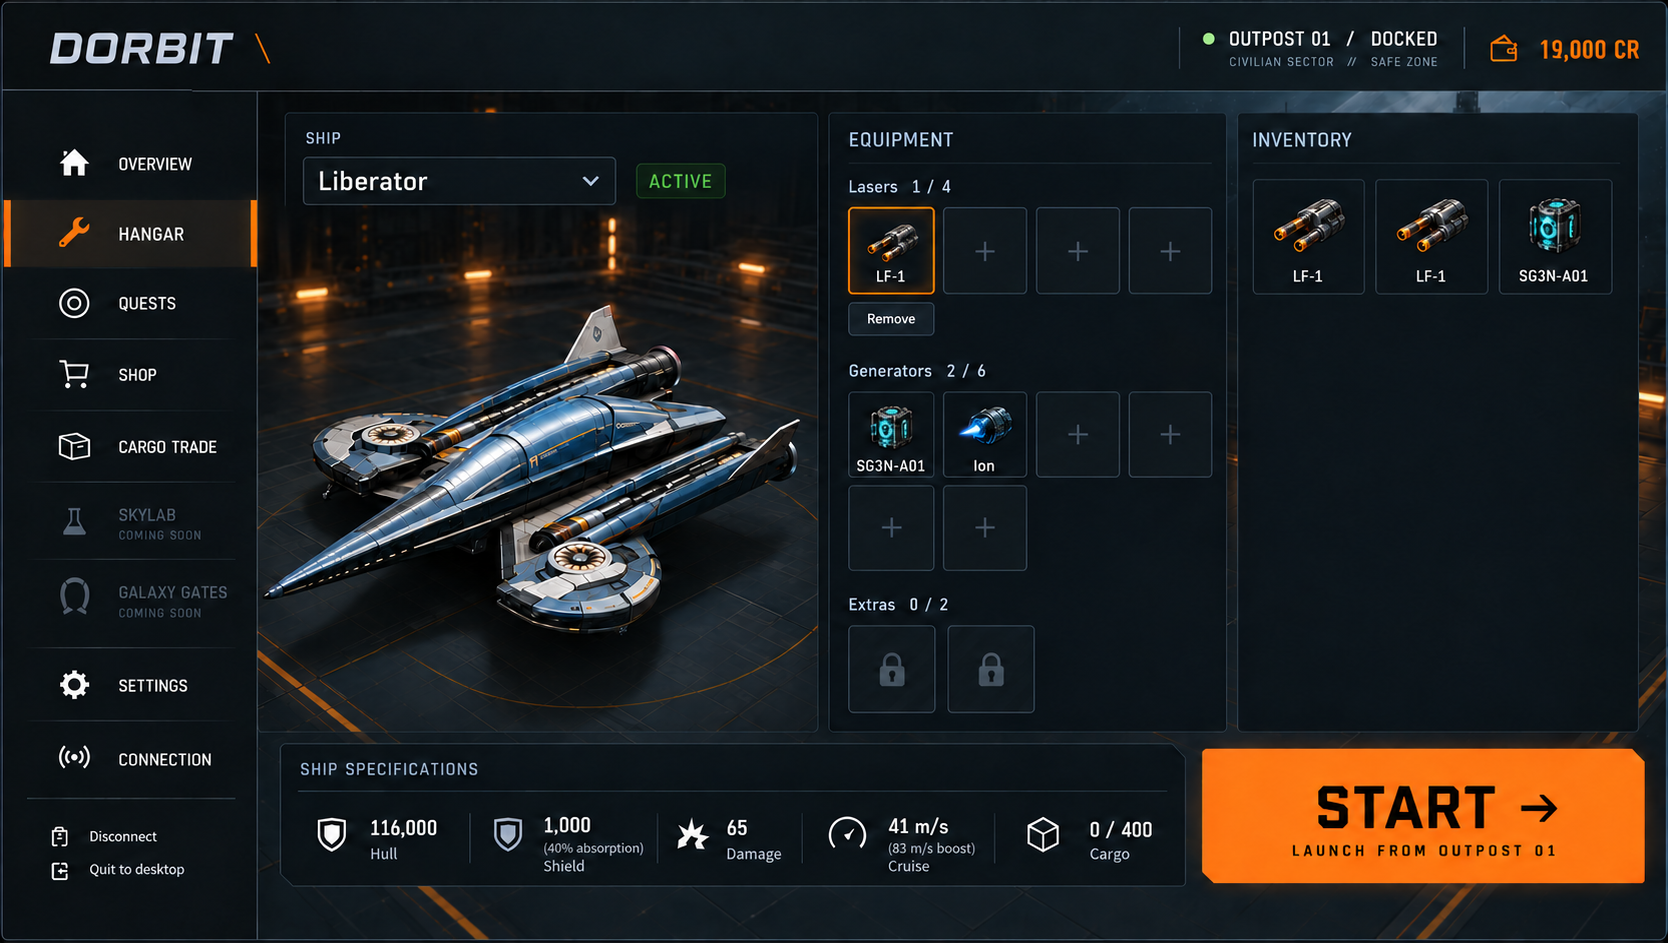
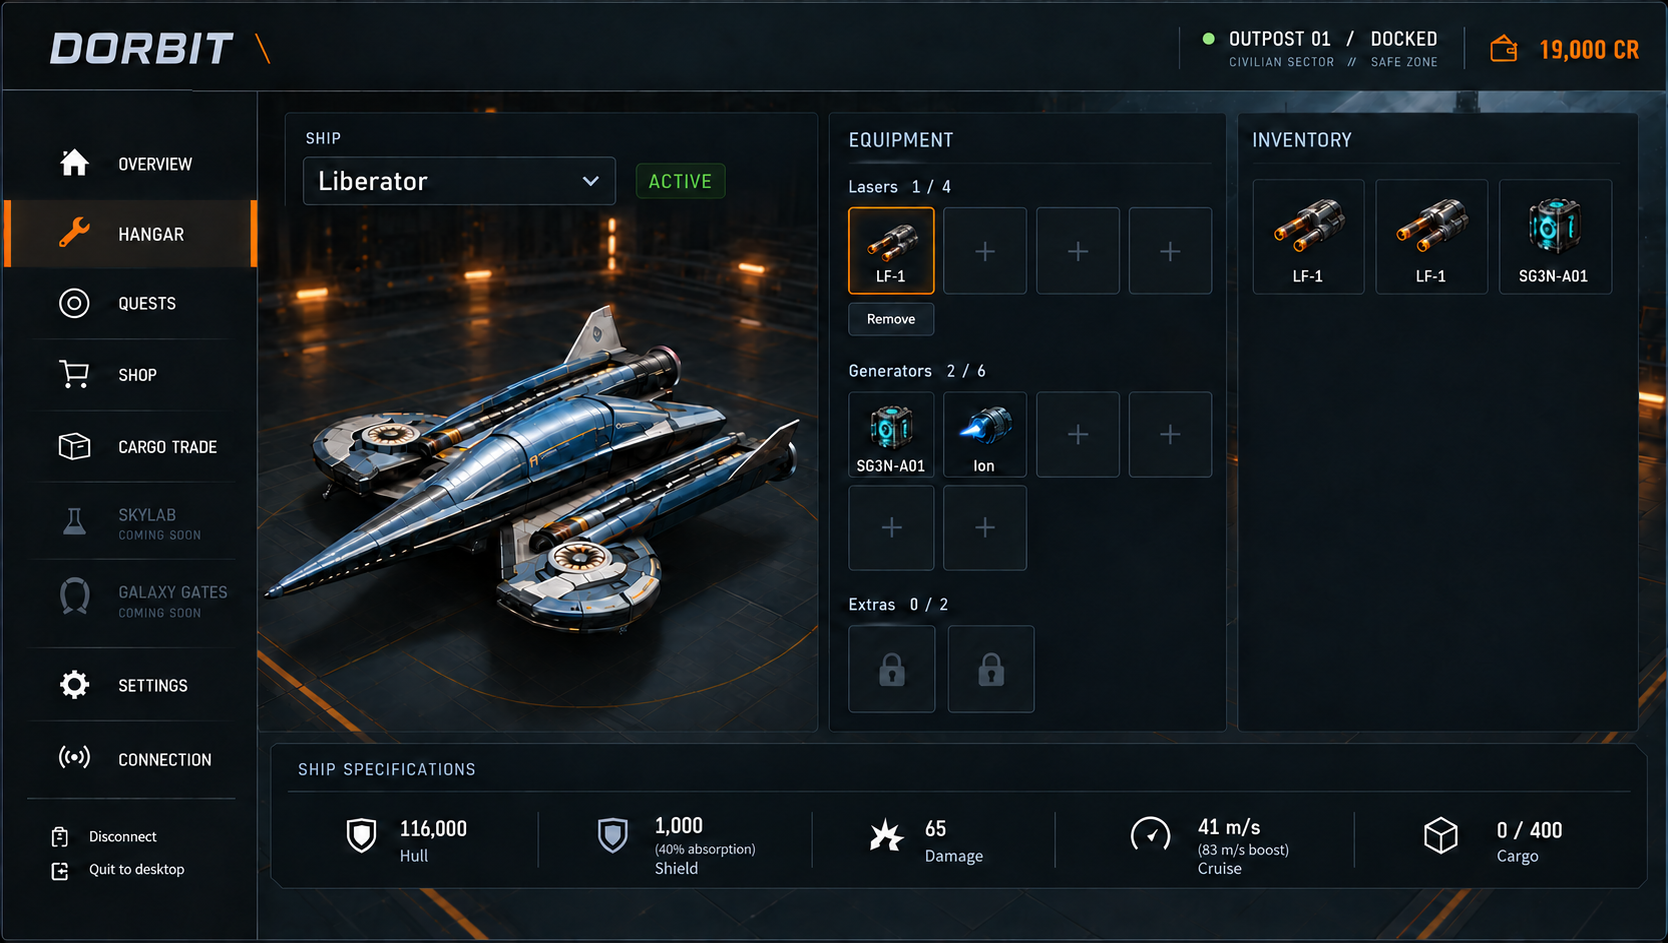
docs: restrict launch to overview in menu concepts

diff --git a/docs/menu-design/README.md b/docs/menu-design/README.md
@@ -9,23 +9,33 @@ future native Godot UI work; they are not runtime UI assets or playable screens.
 | --- | --- | --- |
 | Main menu opening screen | [main-menu-approved.png](main-menu-approved.png) | User approved, including far-right outpost status and credits |
 | Hangar | [hangar-approved.png](hangar-approved.png) | User approved |
-| Quests | [quests-draft.png](quests-draft.png) | Draft awaiting review |
-| Shop | [shop-draft.png](shop-draft.png) | Draft awaiting review |
-| Cargo Trade | [cargo-trade-draft.png](cargo-trade-draft.png) | Draft awaiting review |
-| Connection | [connection-draft.png](connection-draft.png) | Draft awaiting review |
-| Settings / Controls | [settings-controls-draft.png](settings-controls-draft.png) | Draft awaiting review |
-| Settings / Audio | [settings-audio-draft.png](settings-audio-draft.png) | Draft awaiting review |
-| Settings / Graphics | [settings-graphics-draft.png](settings-graphics-draft.png) | Draft awaiting review |
-| Skylab | [skylab-draft.png](skylab-draft.png) | Coming-soon placeholder draft |
-| Galaxy Gates | [galaxy-gates-draft.png](galaxy-gates-draft.png) | Coming-soon placeholder draft |
+| Quests | [quests-approved.png](quests-approved.png) | Accepted with footer revision |
+| Shop | [shop-approved.png](shop-approved.png) | Accepted with footer revision |
+| Cargo Trade | [cargo-trade-approved.png](cargo-trade-approved.png) | Accepted with footer revision |
+| Connection | [connection-approved.png](connection-approved.png) | Accepted with footer revision |
+| Settings / Controls | [settings-controls-approved.png](settings-controls-approved.png) | Accepted with footer revision |
+| Settings / Audio | [settings-audio-approved.png](settings-audio-approved.png) | Accepted with footer revision |
+| Settings / Graphics | [settings-graphics-approved.png](settings-graphics-approved.png) | Accepted with footer revision |
+| Skylab | [skylab-approved.png](skylab-approved.png) | Coming-soon concept accepted with footer revision |
+| Galaxy Gates | [galaxy-gates-approved.png](galaxy-gates-approved.png) | Coming-soon concept accepted with footer revision |
 
 ## Shared direction
 
 - Graphite surfaces, restrained amber accents, clear typography and generous spacing.
 - Persistent left navigation and top bar; outpost status and credits at the far right.
+- Overview alone has Start. Ship specifications appear only on Overview and Hangar.
 - Keep text to useful labels, values, actions and contextual feedback. Start minimal and add only what is needed.
 - No slogans, fictional clocks/dates, decorative numbering, duplicate outpost headings, schematic callouts or flight-preparation panel.
 - Preserve existing functionality. Do not invent equipment types, configurations or progression systems.
+
+| Page | Ship-specifications strip | Start |
+| --- | --- | --- |
+| Overview | Visible | Visible |
+| Hangar | Visible, spanning the content width | Hidden |
+| Every other page | Hidden | Hidden |
+
+Launch requires returning to Overview. Cargo Trade keeps its own cargo usage/value
+summary; Shop keeps product stats and pricing; Quests keeps objectives and rewards.
 
 ## Hangar intent
 
@@ -40,7 +50,7 @@ Keep current and proposed fitting values, ship activation, accessible click/sele
 alternatives to dragging and blocked-action reasons available in implementation
 when relevant. These static images show one state, not every interaction.
 
-## Other menu drafts
+## Other menu concepts
 
 Quests shows the existing Scout, Sentinel and Heavy offers, their objectives and
 rewards, and a selected Scout offer with Accept. Active runs use the same layout
@@ -60,11 +70,11 @@ final panel sizing; implement one consistent tab container across all three.
 Connection shows an already-connected client with locked address/port fields.
 The example hostname is fictional. Connect is unavailable while connected;
 Disconnect is available. A disconnected state must expose editable fields and
-Connect while disabling launch and unavailable station actions. Authentication
+Connect while disabling unavailable station actions and Overview's launch. Authentication
 continues through operator-provisioned credentials, not new login fields.
 
 Skylab and Galaxy Gates contain only an icon and Coming soon. They add no gameplay.
-These drafts cover the docked main-menu destinations; flight HUD, sector map and
+These concepts cover the docked main-menu destinations; flight HUD, sector map and
 in-flight pause overlays are outside this concept batch.
 
 ## Generation provenance
@@ -80,13 +90,25 @@ it; the approved image shows the correct six. Exact prompts are in
 [hangar-generation-prompt.txt](hangar-generation-prompt.txt) and
 [hangar-correction-prompt.txt](hangar-correction-prompt.txt).
 
-The other nine drafts used the approved hangar as their style reference. Quests,
+The other nine concepts used the approved hangar as their style reference. Quests,
 Shop and Cargo Trade also used the existing screenshots as functional references.
 Their exact built-in ImageGen prompts are saved as `<screen>-generation-prompt.txt`
 beside each image.
+
+The user accepted those concepts with one shared revision: Start belongs only to
+Overview, and the ship-specifications strip belongs only to Overview and Hangar.
+The current images reflect that rule. The hangar strip expands into the former
+Start-button space; other pages restore quiet hangar background in place of both
+footer components. Exact built-in ImageGen edits are saved in
+[hangar-footer-edit-prompt.txt](hangar-footer-edit-prompt.txt) and
+[other-menus-footer-edit-prompt.txt](other-menus-footer-edit-prompt.txt).
+Original generation prompts describe the earlier shared footer for provenance;
+the visibility table and final edit prompts supersede that earlier instruction.
 
 Validation: visually checked the saved concepts for minimal copy, existing menu
 functionality, right-aligned header and relevant values. Controls matches all
 twelve current bindings; resource quantities/prices total 1,270 CR; the LF-1
 purchase leaves 9,000 CR from 19,000 CR. Documentation and diff checks apply; no
 gameplay code changed. The directory is excluded from Godot imports with `.gdignore`.
+The revised images were also checked for footer visibility, preserved page actions
+and Hangar's unchanged four laser, six generator and two extra slots.

diff --git a/GAME_PLAN.md b/GAME_PLAN.md
@@ -212,8 +212,10 @@ server builds must match (network schema 7 adds docked state and launch RPCs).
 
 The user approved the [main-menu opening-screen concept](docs/menu-design/main-menu-approved.png).
 Use graphite surfaces, amber accents, a persistent left navigation rail, a large
-active-ship preview, bottom ship statistics and an orange Start action. Align the
-outpost status and credits together at the far right of the top bar.
+active-ship preview, bottom ship statistics and an orange Start action on Overview.
+Start is exclusive to Overview. Hangar retains its ship-specifications strip,
+without Start; all other pages omit both the strip and Start. Align the outpost
+status and credits together at the far right of the top bar.
 
 Keep every menu minimal: short functional labels, necessary values and actions.
 Add text or controls only as needed. Omit slogans, decorative section numbers,
@@ -224,9 +226,10 @@ instruction paragraphs.
 
 The user also approved the [hangar concept](docs/menu-design/hangar-approved.png),
 which carries this style into owned-ship selection, equipment slots and storage
-inventory. Matching drafts now cover Quests, Shop, Cargo Trade, Connection, all
-three Settings tabs and the Skylab/Galaxy Gates coming-soon placeholders; these
-new drafts await review. The displayed inventory, quest state, connection address
+inventory. The user accepted the matching Quests, Shop, Cargo Trade, Connection,
+three Settings tabs and Skylab/Galaxy Gates coming-soon concepts with the footer
+visibility change described above. The saved images incorporate that change.
+The displayed inventory, quest state, connection address
 and settings are illustrative; actual ownership and fitting remain server-authoritative.
 Saved images are visual references for future implementation, not implemented
 menu screens. See [concept notes and prompts](docs/menu-design/README.md).
